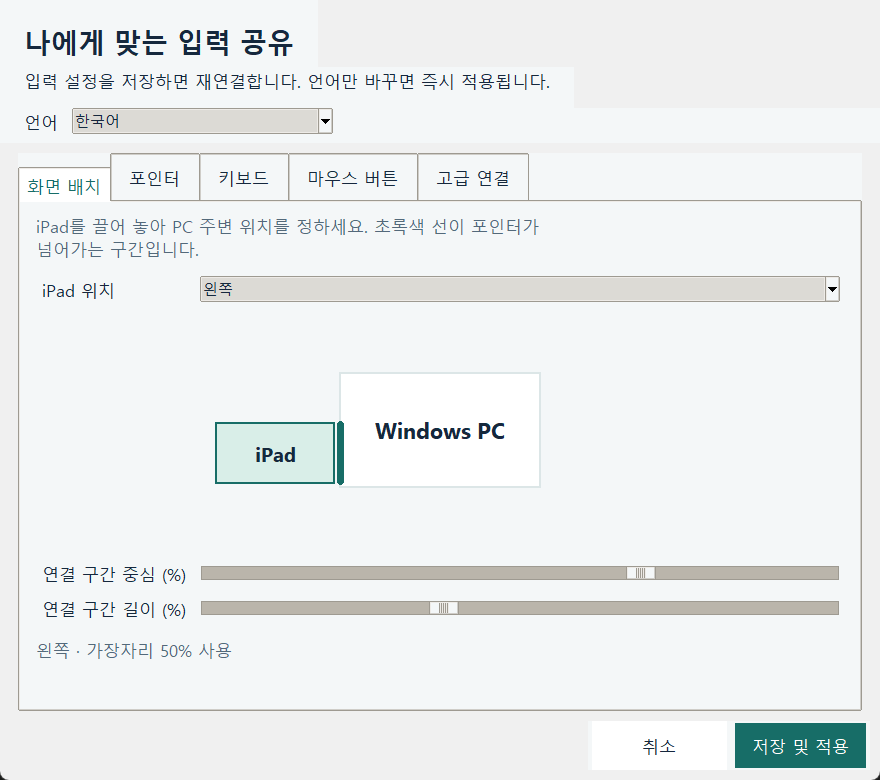
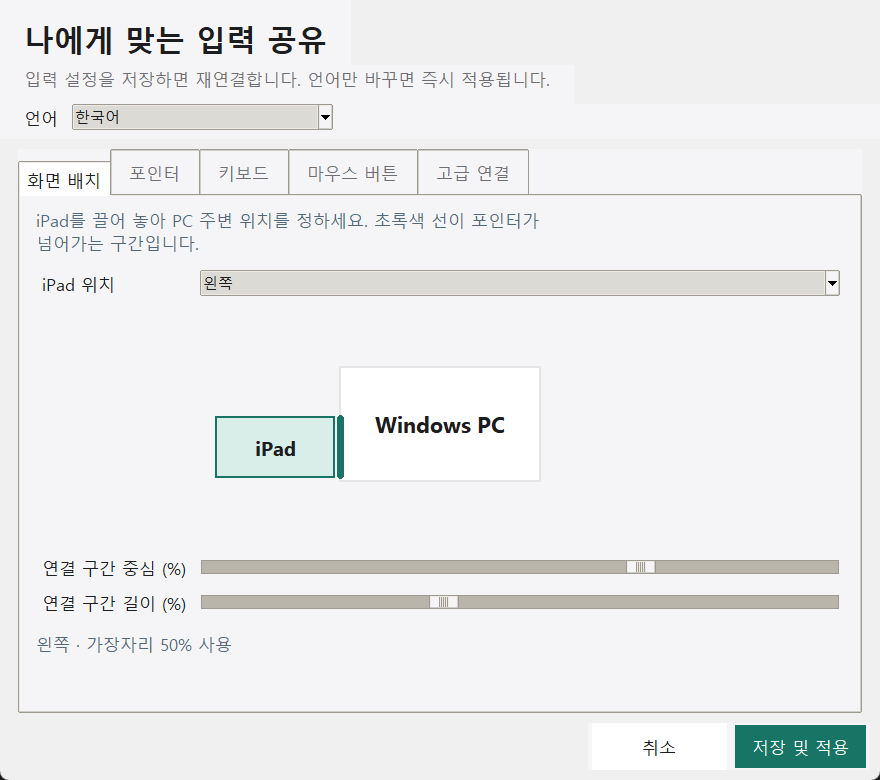
Refine desktop UI with calm system-inspired visual hierarchy

diff --git a/winuc/gui/dashboard.py b/winuc/gui/dashboard.py
@@ -46,19 +46,18 @@ class Dashboard:
         header = ttk.Frame(body)
         header.pack(fill="x")
         from PIL import ImageTk
-        self.brand_icon = ImageTk.PhotoImage(make_icon(None, 48), master=self.win)
-        ttk.Label(header, image=self.brand_icon).pack(side="left", padx=(0, 11))
-        ttk.Label(header, text="Glideleaf", font=("Segoe UI", 25, "bold")).pack(side="left")
-        ttk.Label(header, text="PC → iPad   /   INPUT SHARING", foreground=MUTED, font=("Segoe UI", 9)).pack(side="right")
+        self.brand_icon = ImageTk.PhotoImage(make_icon(None, 40), master=self.win)
+        ttk.Label(header, image=self.brand_icon).pack(side="left", padx=(0, 10))
+        ttk.Label(header, text="Glideleaf", font=(font_family(), 22, "bold")).pack(side="left")
         ttk.Label(body, text=t("익숙한 마우스와 키보드, iPad에서도 그대로."), foreground=MUTED, wraplength=650, padding=(0, 2, 0, 10)).pack(anchor="w")
         card = tk.Frame(body, bg="white", padx=18, pady=12, highlightbackground=LINE, highlightthickness=1)
         card.pack(fill="x", pady=(0, 2))
         self.card = card
-        self.badge = tk.Label(card, text="●", bg="white", fg=BLUE, font=("Segoe UI", 14))
+        self.badge = tk.Label(card, text="●  Bluetooth LE", bg="white", fg=BLUE, font=(font_family(), 9, "bold"))
         self.badge.pack(anchor="w")
         self.title = tk.StringVar()
         self.hint = tk.StringVar()
-        tk.Label(card, textvariable=self.title, bg="white", fg=INK, wraplength=580, justify="left", font=(font_family(), 18, "bold")).pack(anchor="w", pady=(4, 6))
+        tk.Label(card, textvariable=self.title, bg="white", fg=INK, wraplength=580, justify="left", font=(font_family(), 17, "bold")).pack(anchor="w", pady=(6, 5))
         tk.Label(card, textvariable=self.hint, bg="white", fg=MUTED, wraplength=580, justify="left", font=(font_family(), 10)).pack(anchor="w")
         self.toggle = ttk.Button(card, command=self.toggle_service, style="Primary.TButton")
         self.toggle.pack(anchor="w", pady=(10, 0))
@@ -82,15 +81,13 @@ class Dashboard:
             self.quickstart.pack(anchor="w")
         self.footer = ttk.Frame(body)
         self.footer.pack(fill="x", pady=(10, 0))
-        self.log_toggle = tk.Button(self.footer, text=t("진단 로그 펼치기"), command=self.toggle_logs,
-                                    bg="#FFFFFF", fg=INK, activebackground="#EAF3F0", activeforeground=INK,
-                                    relief="flat", padx=14, pady=9, font=(font_family(), 10))
+        self.log_toggle = ttk.Button(self.footer, text=t("진단 로그 펼치기"), command=self.toggle_logs)
         self.log_toggle.pack(side="left")
-        tk.Button(self.footer, text=t("오픈소스 정보"), command=self.show_about,
-                  bg="#FFFFFF", fg=INK, activebackground="#EAF3F0", activeforeground=INK,
-                  relief="flat", padx=14, pady=9, font=(font_family(), 10)).pack(side="right")
+        ttk.Button(self.footer, text=t("오픈소스 정보"), command=self.show_about).pack(side="right")
         self.logs = ttk.Frame(body)
-        self.log = tk.Text(self.logs, height=2, wrap="word", state="disabled", bg="#E9EDF5", fg=INK, relief="flat", font=("Consolas", 9), padx=10, pady=8)
+        self.log = tk.Text(self.logs, height=2, wrap="word", state="disabled", bg="#FFFFFF", fg=INK,
+                           relief="flat", highlightthickness=1, highlightbackground=LINE,
+                           font=("Consolas", 9), padx=10, pady=8)
         self.log.pack(fill="both", expand=True)
         ttk.Button(self.logs, text=t("전체 로그 열기"), command=self.open_log).pack(anchor="e", pady=4)
         self.refresh()
@@ -154,7 +151,7 @@ class Dashboard:
         self.hint.set(t(hint))
         color = "#16845B" if service.status == "ready" else "#C24236" if service.status == "error" else BLUE
         self.badge.configure(fg=color, text="●  " + "Bluetooth LE")
-        self.card.configure(highlightbackground=color if service.status in ("ready", "error") else LINE)
+        self.card.configure(highlightbackground=LINE)
         self.draw_devices()
         self.device.set(t("Bluetooth  ·  {name}\n화면 위치  ·  {edge}\nWindows 긴급 복귀  ·  {hotkey}", name=config.device_name, edge=t(EDGES[config.edge]), hotkey=config.release_hotkey.upper()))
         self.toggle.configure(text=t("연결 중지") if service.running else t("연결 시작"))

diff --git a/winuc/gui/setup_wizard.py b/winuc/gui/setup_wizard.py
@@ -11,7 +11,7 @@ from .. import driver
 from ..diagnostics import build_report, report_text
 from ..i18n import t
 from ..native_driver import RebootRequired
-from .theme import configure, font_family
+from .theme import BG, MUTED, LINE, configure, font_family
 from .icons import apply_window_icon, make_icon
 
 
@@ -36,12 +36,14 @@ class SetupWizard:
         self.win = tk.Toplevel(root)
         self.win.title(t("Glideleaf 동글 설정"))
         apply_window_icon(self.win)
-        self.win.geometry("920x680")
+        width = min(920, max(820, self.win.winfo_screenwidth() - 80))
+        height = min(680, max(620, self.win.winfo_screenheight() - 80))
+        self.win.geometry(f"{width}x{height}")
         self.win.minsize(820, 620)
         self.win.protocol("WM_DELETE_WINDOW", self._close)
         self.win.columnconfigure(0, weight=1)
         self.win.rowconfigure(0, weight=1)
-        frm = ttk.Frame(self.win, padding=24)
+        frm = ttk.Frame(self.win, padding=18)
         frm.grid(sticky="nsew")
         frm.columnconfigure(0, weight=1)
         frm.rowconfigure(2, weight=1)
@@ -51,7 +53,8 @@ class SetupWizard:
         heading.grid(row=0, column=0, sticky="w", pady=(0, 7))
         ttk.Label(heading, image=self.brand_icon).pack(side="left", padx=(0, 10))
         ttk.Label(heading, text=t("전용 동글 연결하기"), font=(font_family(), 18, "bold")).pack(side="left")
-        ttk.Label(frm, text=t("목록에서 동글을 선택하고 동글 연결을 누르세요. 이미 준비된 동글은 적용 후 바로 사용할 수 있습니다."), wraplength=830).grid(row=1, column=0, sticky="w", pady=(0, 17))
+        ttk.Label(frm, text=t("목록에서 동글을 선택하고 동글 연결을 누르세요. 이미 준비된 동글은 적용 후 바로 사용할 수 있습니다."),
+                  foreground=MUTED, wraplength=830).grid(row=1, column=0, sticky="w", pady=(0, 12))
         table_frame = ttk.Frame(frm)
         table_frame.grid(row=2, column=0, sticky="nsew")
         table_frame.columnconfigure(0, weight=1)
@@ -66,11 +69,13 @@ class SetupWizard:
         horizontal = ttk.Scrollbar(table_frame, orient="horizontal", command=self.devices.xview)
         horizontal.grid(row=1, column=0, sticky="ew")
         self.devices.configure(yscrollcommand=scrollbar.set, xscrollcommand=horizontal.set)
-        self.devices.tag_configure("alternate", background="#F7FAFA")
+        self.devices.tag_configure("alternate", background=BG)
         self.devices.bind("<<TreeviewSelect>>", self._select)
         self.status_var = tk.StringVar(value=t("블루투스 동글 검색 중…"))
         ttk.Label(frm, textvariable=self.status_var, wraplength=830, justify="left", font=(font_family(), 10, "bold")).grid(row=3, column=0, sticky="w", pady=(15, 12))
-        self.detail = tk.Text(frm, height=4, width=80, state="disabled", wrap="word", bg="#FFFFFF", fg="#53697A", relief="flat", padx=11, pady=9, font=(font_family(), 9))
+        self.detail = tk.Text(frm, height=4, width=80, state="disabled", wrap="word", bg="#FFFFFF", fg=MUTED,
+                              relief="flat", highlightthickness=1, highlightbackground=LINE,
+                              padx=11, pady=9, font=(font_family(), 9))
         self.detail.grid(row=4, column=0, sticky="ew", pady=(0, 15))
         actions = ttk.Frame(frm)
         actions.grid(row=5, column=0, sticky="ew")

diff --git a/winuc/gui/theme.py b/winuc/gui/theme.py
@@ -1,11 +1,11 @@
 """Shared, dependency-free desktop palette."""
 from tkinter import ttk
 
-BG = "#F4F7F8"
-INK = "#15283D"
-MUTED = "#53697A"
-BLUE = "#176D67"
-LINE = "#DCE6E7"
+BG = "#F5F5F7"
+INK = "#1D1D1F"
+MUTED = "#6E6E73"
+BLUE = "#187566"
+LINE = "#E5E5E8"
 
 
 def font_family():
@@ -19,21 +19,23 @@ def configure(root):
     style.configure(".", font=(font_family(), 10), background=BG, foreground=INK)
     style.configure("TFrame", background=BG)
     style.configure("TLabel", background=BG)
-    style.configure("TButton", padding=(15, 10), background="#FFFFFF", foreground=INK, borderwidth=1, relief="flat")
-    style.map("TButton", background=[("active", "#EAF3F0"), ("disabled", "#F0F3F3")],
-              foreground=[("disabled", "#8DA0A8"), ("active", INK)])
+    style.configure("TButton", padding=(15, 9), background="#FFFFFF", foreground=INK,
+                    borderwidth=1, relief="flat", bordercolor=LINE)
+    style.map("TButton", background=[("active", "#ECECEF"), ("disabled", "#F5F5F7")],
+              foreground=[("disabled", "#A1A1A6"), ("active", INK)])
     style.configure("Primary.TButton", background=BLUE, foreground="white", borderwidth=0)
-    style.map("Primary.TButton", background=[("disabled", "#A9CAC4"), ("active", "#105A55")], foreground=[("disabled", "#FFFFFF"), ("active", "#FFFFFF")])
+    style.map("Primary.TButton", background=[("disabled", "#ABCFC7"), ("active", "#115E52")], foreground=[("disabled", "#FFFFFF"), ("active", "#FFFFFF")])
     style.configure("TLabel", foreground=INK)
-    style.configure("Treeview", font=(font_family(), 10), rowheight=35, background="#FFFFFF",
+    style.configure("Treeview", font=(font_family(), 10), rowheight=34, background="#FFFFFF",
                     fieldbackground="#FFFFFF", foreground=INK, borderwidth=0)
     style.configure("Treeview.Heading", font=(font_family(), 9, "bold"), padding=(10, 11),
-                    background="#EAF0F0", foreground=MUTED, borderwidth=0)
-    style.map("Treeview", background=[("selected", "#D9EEE8")], foreground=[("selected", INK)])
-    style.map("Treeview.Heading", background=[("active", "#DFEAE8")])
+                    background="#F5F5F7", foreground=MUTED, borderwidth=0)
+    style.map("Treeview", background=[("selected", "#E1F2ED")], foreground=[("selected", INK)])
+    style.map("Treeview.Heading", background=[("active", "#EBEBEE")])
     style.configure("TNotebook", borderwidth=0)
-    style.configure("TNotebook.Tab", padding=(16, 10))
-    style.map("TNotebook.Tab", background=[("selected", "white")], foreground=[("selected", BLUE)])
+    style.configure("TNotebook.Tab", padding=(16, 9), background=BG, foreground=MUTED)
+    style.map("TNotebook.Tab", background=[("selected", "white"), ("active", "#EBEBEE")],
+              foreground=[("selected", INK), ("active", INK)])
     style.configure("TEntry", padding=7, fieldbackground="white")
     style.configure("TSpinbox", padding=6, fieldbackground="white")
     root.configure(bg=BG)

diff --git a/winuc/gui/settings.py b/winuc/gui/settings.py
@@ -11,7 +11,7 @@ from copy import deepcopy
 from typing import Callable
 
 from ..config import Config
-from .theme import configure, font_family
+from .theme import BG, MUTED, configure, font_family
 from .icons import apply_window_icon
 from .layout_diagram import clamp_center, draw_layout, layout_from_point
 
@@ -49,8 +49,9 @@ class SettingsWindow:
 
         self.vars: dict[str, tk.Variable] = {}
         nb = ttk.Notebook(self.win)
-        ttk.Label(self.win, text=t("나에게 맞는 입력 공유"), font=(font_family(), 16, "bold"), padding=(22, 20, 22, 6)).grid(row=0, column=0, sticky="w")
-        ttk.Label(self.win, text=t("저장하면 연결을 다시 시작해 설정을 적용합니다."), wraplength=620, padding=(22, 0, 22, 14)).grid(row=1, column=0, sticky="w")
+        ttk.Label(self.win, text=t("나에게 맞는 입력 공유"), font=(font_family(), 18, "bold"), padding=(22, 16, 22, 4)).grid(row=0, column=0, sticky="w")
+        ttk.Label(self.win, text=t("저장하면 연결을 다시 시작해 설정을 적용합니다."), foreground=MUTED,
+                  wraplength=620, padding=(22, 0, 22, 12)).grid(row=1, column=0, sticky="w")
         language_bar = ttk.Frame(self.win, padding=(22, 0, 22, 8))
         language_bar.grid(row=2, column=0, sticky="ew")
         ttk.Label(language_bar, text=t("언어")).pack(side="left", padx=(0, 12))
@@ -85,7 +86,7 @@ class SettingsWindow:
         self._row(f, 1, t("iPad 위치"), ttk.Combobox(
             f, textvariable=self.vars["edge"], values=list(self._edge_labels.values()), state="readonly", width=14))
         self.layout_canvas = tk.Canvas(f, width=540, height=self._layout_canvas_height,
-                                       bg="#F4F7F8", highlightthickness=0, cursor="hand2")
+                                       bg=BG, highlightthickness=0, cursor="hand2")
         self.layout_canvas.grid(row=2, column=0, columnspan=2, sticky="ew", pady=(8, 11))
         self.layout_canvas.bind("<Configure>", lambda _event: self._render_layout())
         self.layout_canvas.bind("<ButtonPress-1>", self._start_layout_drag)
